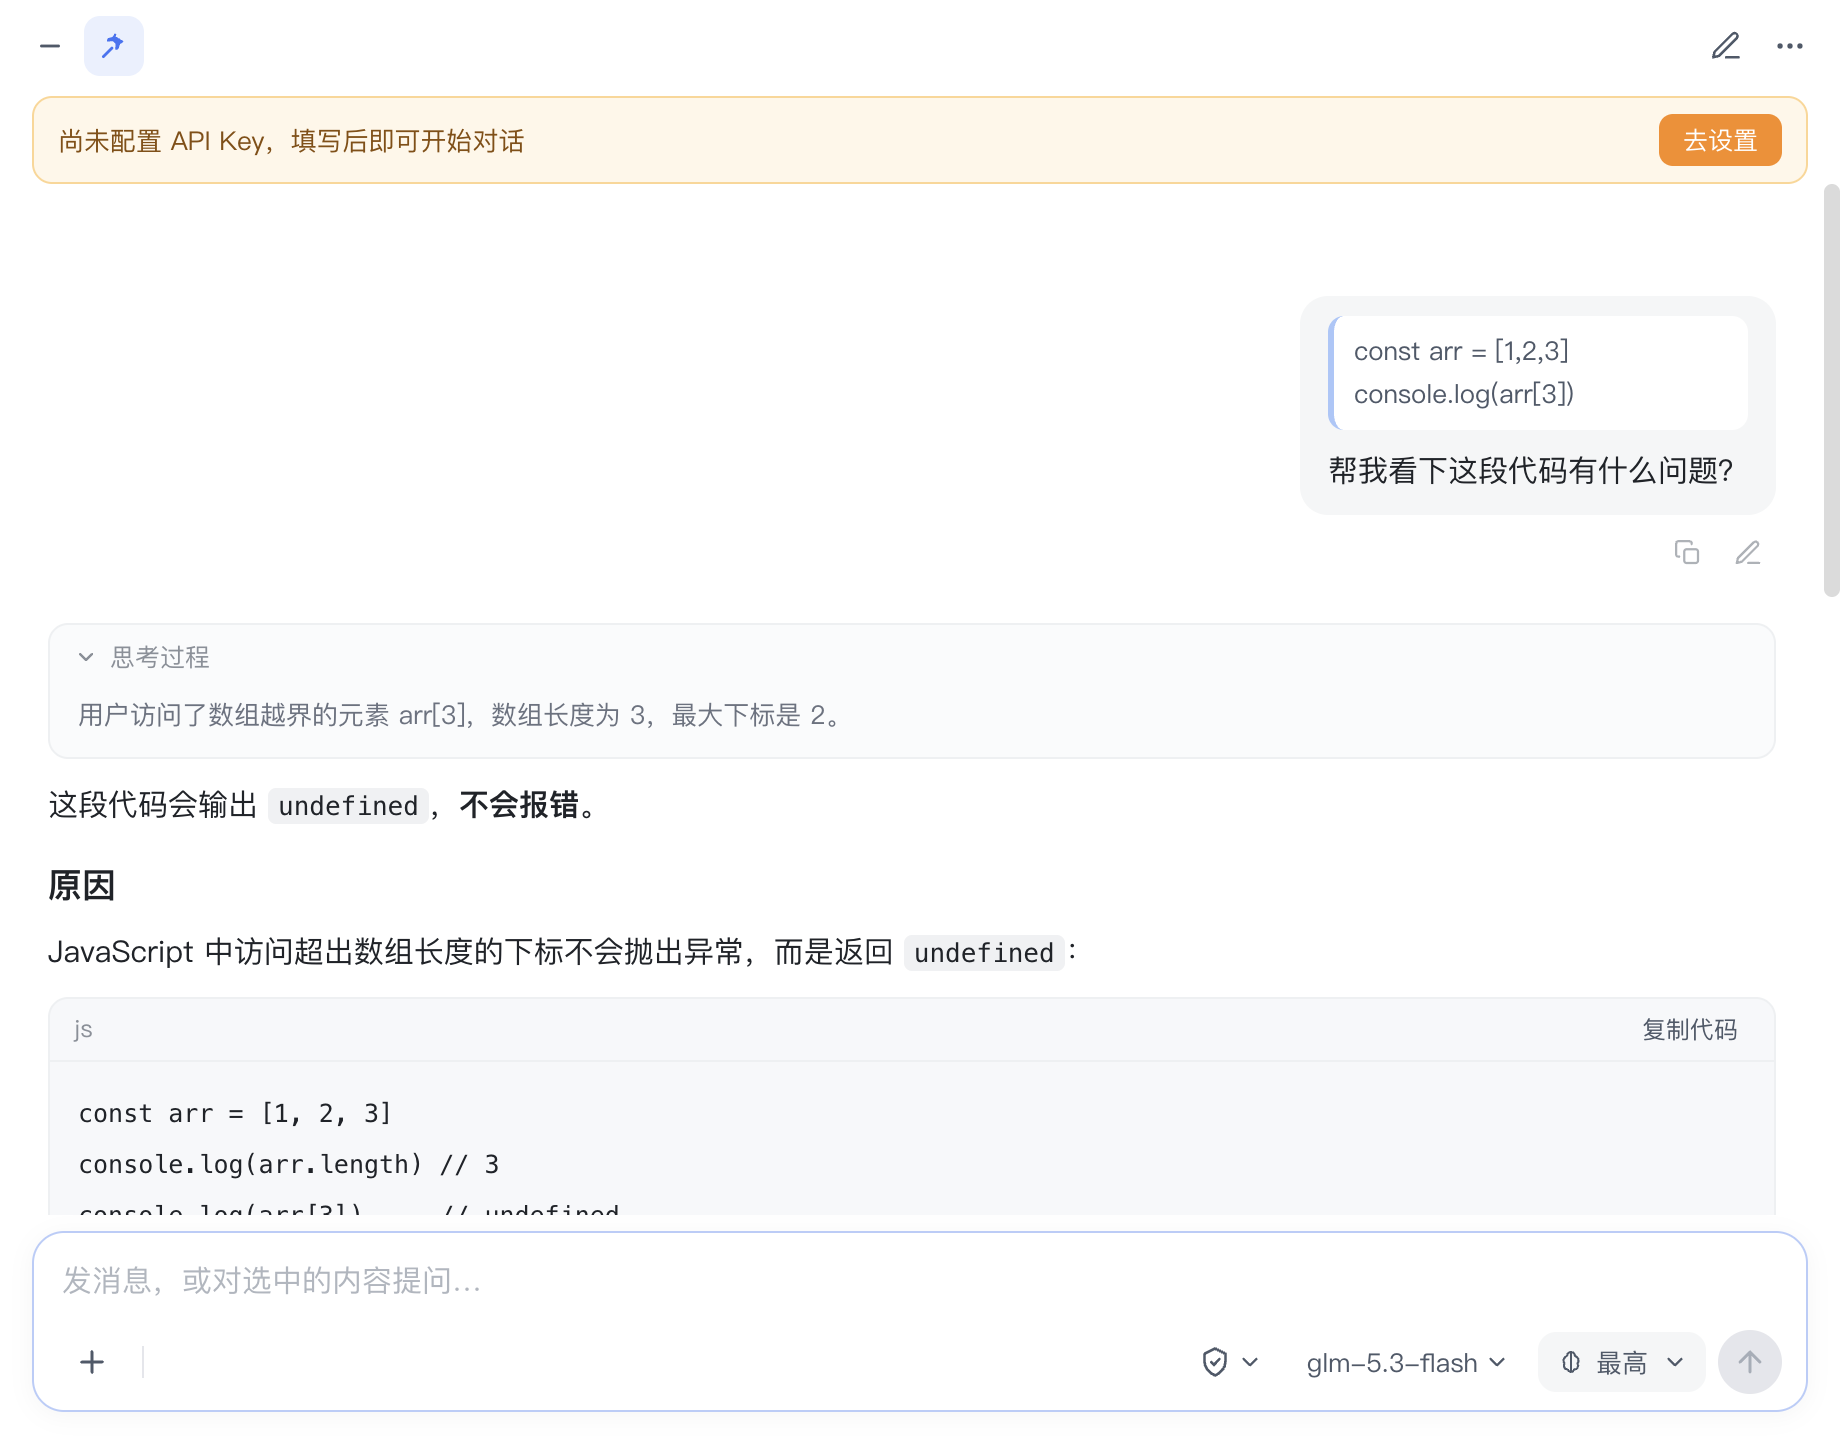
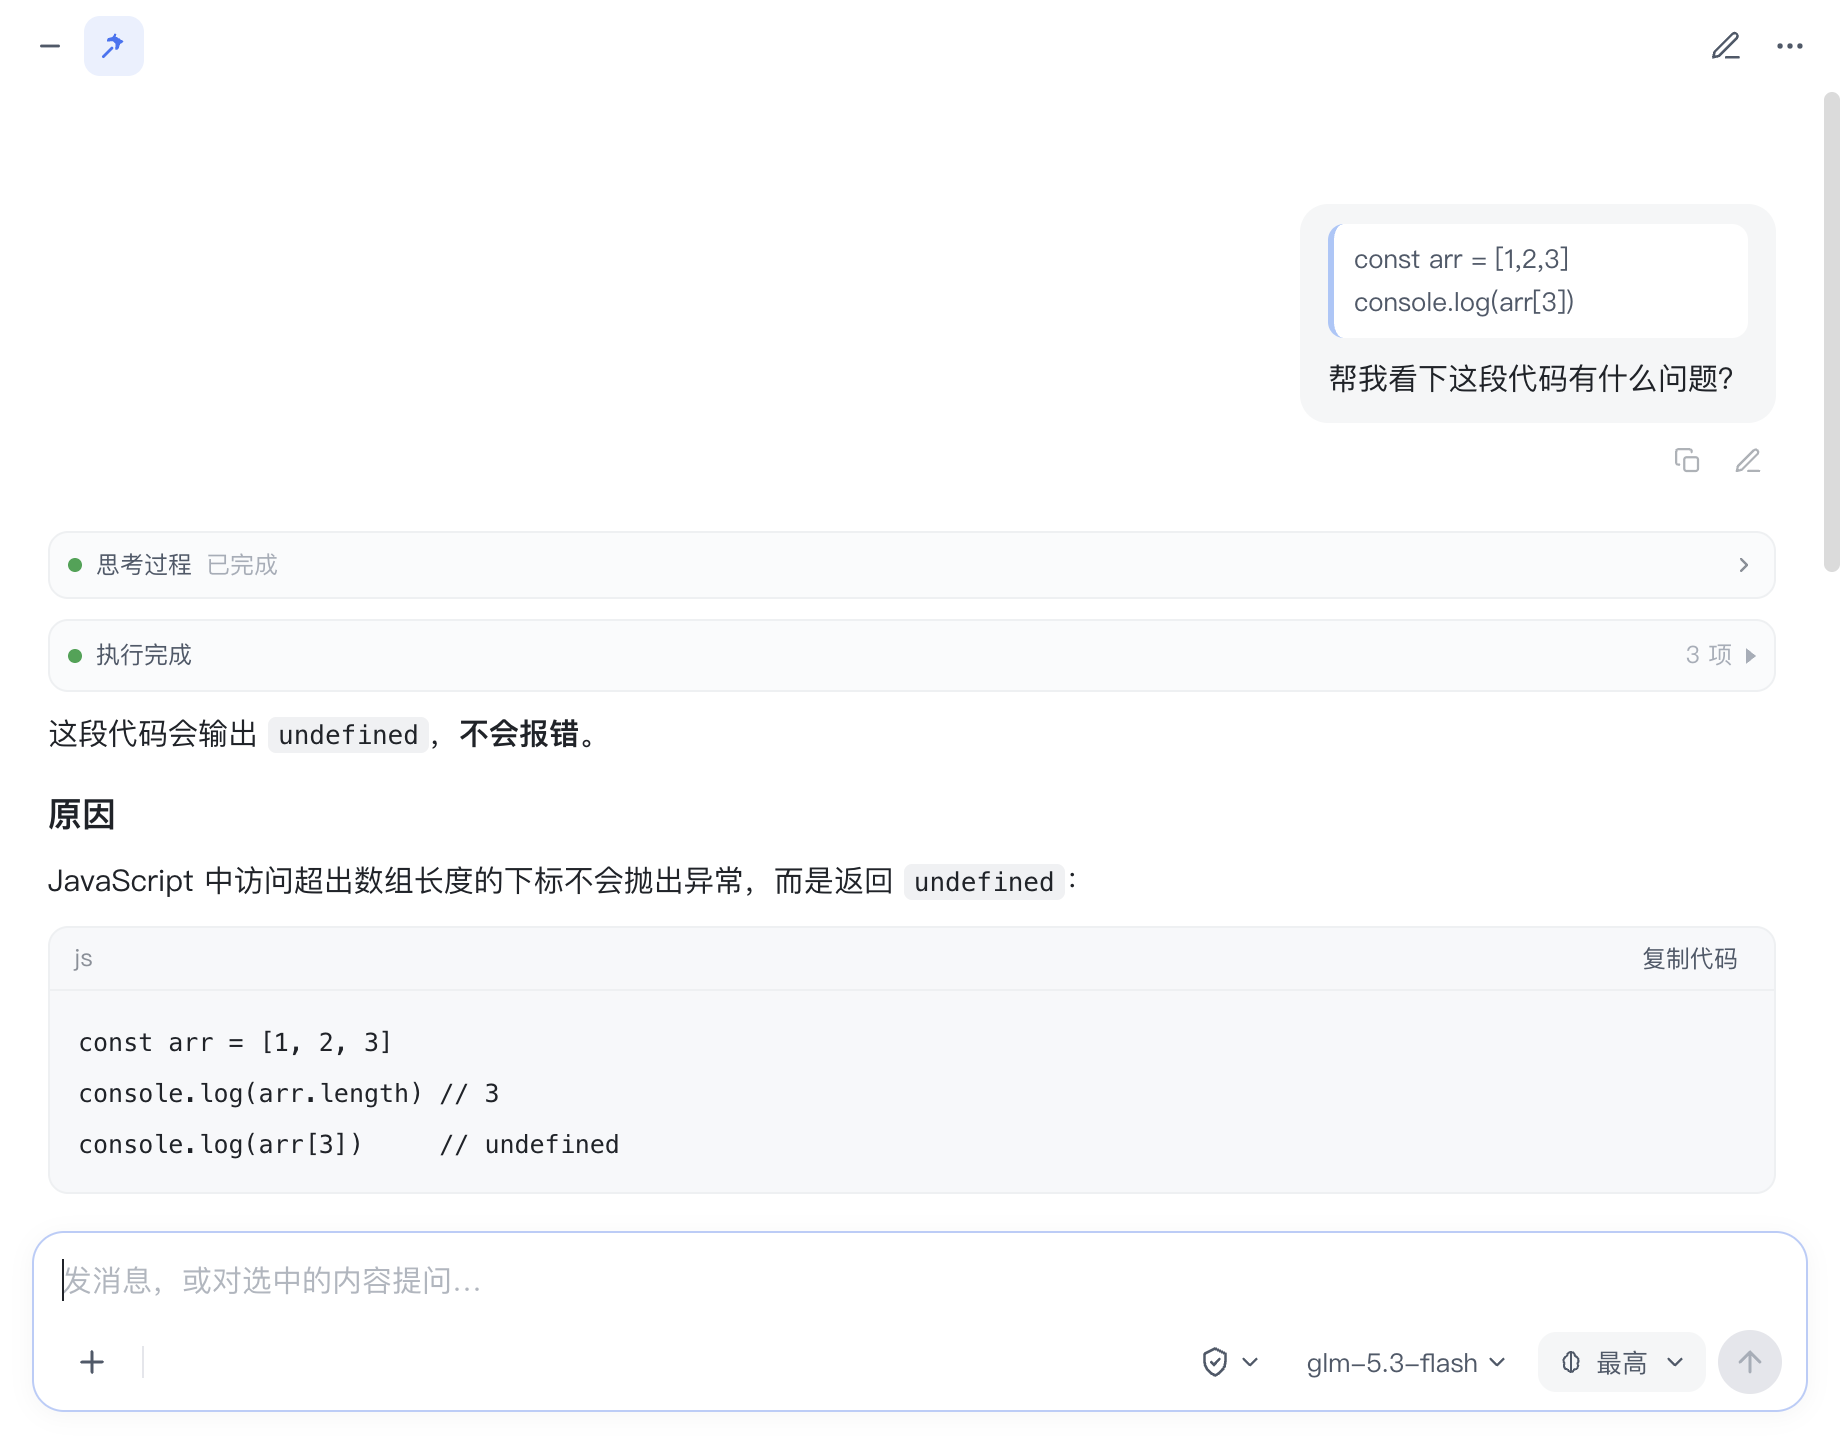
chore: prepare v0.1.2 release with updated product screenshots

diff --git a/src/main/smoke.ts b/src/main/smoke.ts
@@ -60,7 +60,15 @@ module.exports = function runSmoke(deps) {
         },
         {
           id: 'd2', role: 'assistant', done: true,
-          reasoning: '用户访问了数组越界的元素 arr[3]，数组长度为 3，最大下标是 2。',
+          reasoning: '意图识别：这是一个代码问题，可直接分析。\n已路由到本机 Agent（自动选择），正在调用 Skill / MCP / CLI…\n用户访问了数组越界的元素 arr[3]，数组长度为 3，最大下标是 2。',
+          reasoningDone: true,
+          reasoningCollapsed: true,
+          tools: [
+            { id: 'intent', title: '意图识别 · glm-5.3-flash', state: 'done', detail: 'GLM 直答；置信度 92%；代码分析无需本机工具。' },
+            { id: 'tool-1', title: 'Read', state: 'done', detail: 'const arr = [1,2,3]\nconsole.log(arr[3])' },
+            { id: 'tool-2', title: 'Bash', state: 'done', detail: 'node -e "console.log([1,2,3][3])"\n# undefined' }
+          ],
+          durationMs: 18200,
           text: '这段代码会输出 `undefined`，**不会报错**。\n\n## 原因\n\nJavaScript 中访问超出数组长度的下标不会抛出异常，而是返回 `undefined`：\n\n```js\nconst arr = [1, 2, 3]\nconsole.log(arr.length) // 3\nconsole.log(arr[3])     // undefined\n```\n\n## 建议\n\n- 访问前先判断下标：`if (i < arr.length)`\n- 或使用 `arr.at(3)` 同样返回 `undefined`\n- 需要报错提醒时可以用类型检查或断言库'
         }
         ,
@@ -98,6 +106,15 @@ module.exports = function runSmoke(deps) {
     await askWin.webContents.executeJavaScript("document.querySelector('#scroll').scrollTo(0,0)")
     await sleep(300)
     await snap('ask-top', askWin)
+    // 展开一条工具链路，为 README 生成最新交互示例。
+    await askWin.webContents.executeJavaScript(`(() => {
+      const group = document.querySelector('.tool-trace')
+      if (group) group.open = true
+      const item = document.querySelector('.tool-item')
+      if (item) item.open = true
+    })()`)
+    await sleep(300)
+    await snap('agent-trace', askWin)
     out.steps.push('ask alwaysOnTop(置顶): ' + (askWin.isAlwaysOnTop() ? 'OK' : 'FAIL'))
 
     try {

diff --git a/src/main/main.ts b/src/main/main.ts
@@ -301,7 +301,8 @@ function showAskOnActiveSpace() {
 function openAsk(payload = {}) {
   const win = ensureAsk()
   const send = () => {
-    win.__ready && win.webContents.send('ask:init', { ...payload, config: askCfgSnapshot(), hookFailed, hotkeyConflict })
+    const config = (payload as any).config || askCfgSnapshot()
+    win.__ready && win.webContents.send('ask:init', { ...payload, config, hookFailed, hotkeyConflict })
   }
   if (win.__ready && !win.isVisible()) {
     showAskOnActiveSpace()

diff --git a/README.md b/README.md
@@ -8,6 +8,7 @@
 
 ![划词工具条](docs/screenshots/selection-toolbar.png)
 ![引用追问与 Markdown 回复](docs/screenshots/chat-quote.png)
+![Agent 执行链路](docs/screenshots/agent-trace.png)
 ![流式回复与 HTML 渲染](docs/screenshots/chat.png)
 ![设置页](docs/screenshots/settings.png)
 
@@ -24,6 +25,8 @@
 | 重新生成 | 助手消息下方 ↻ 图标，重发同一轮对话 |
 | 图片 / 文件 | 输入框 `+` 上传图片（多模态，最多 6 张）与任意文件（≤10MB；文本内容随消息发送，二进制文件可将本地路径交给本地 Agent 处理）；支持直接粘贴图片 |
 | 思考过程 | 支持模型的 `reasoning_content`，折叠展示，内容开始输出后自动收起 |
+| Agent 执行链路 | 独立模型识别意图；执行过程、工具调用、状态圆点和结果详情按层级展示 |
+| 回复耗时 | 每次回复完成后展示总耗时，包含意图识别与 Agent / GLM 执行阶段 |
 | 新话题 / 历史 | 标题栏 ✏ 新开话题；「⋯ → 历史话题」查看/恢复/删除近 50 个会话 |
 | 模型切换 | 输入框右下角模型名点击切换；设置页可增删模型、设默认 |
 | 本地 Agent 复用 | 自动发现 ZCode / Claude Code / Codex 本地的 Skill、MCP、Plugin；GLM 回答会优先命中这些能力，也可从输入框盾牌菜单把任务交给本地 Agent headless 执行 |
@@ -38,7 +41,7 @@
 ### 方式一：下载 Release
 
 1. 打开仓库的 [Releases](../../releases) 页面。
-2. 下载 `GLM-Ask-0.1.1-arm64-mac.zip` 或 `GLM-Ask-0.1.1-arm64.dmg`。
+2. 下载 `GLM-Ask-0.1.2-arm64-mac.zip` 或 `GLM-Ask-0.1.2-arm64.dmg`。
 3. 将 `GLM问问.app` 拖到 `/Applications`。
 4. 首次打开时右键 App → 「打开」，确认一次 Gatekeeper 提示。
 5. 打开设置，填入 GLM API Key 并保存。
